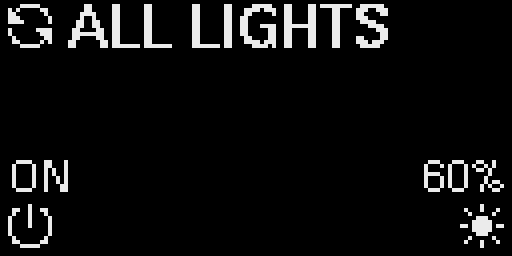
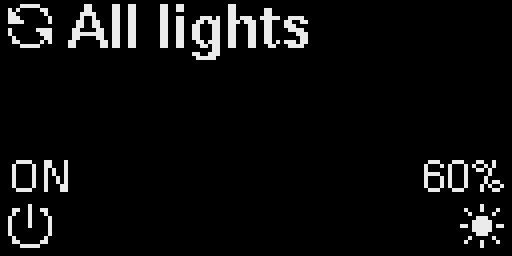
Bugfix

Changed region(s): [[0.2188, 0.0, 0.7812, 0.25]]

diff --git a/test/test_ui/test_main.cpp b/test/test_ui/test_main.cpp
@@ -77,7 +77,7 @@ void test_load_fonts() { TEST_ASSERT_TRUE(fonts.load()); }
 
 void test_home_starts_on_all_lights() {
   auto c = render();
-  TEST_ASSERT_TRUE(c.has_text("ALL LIGHTS"));
+  TEST_ASSERT_TRUE(c.has_text("All lights"));
   TEST_ASSERT_TRUE(c.has_text("ON"));
   TEST_ASSERT_TRUE(c.has_text("60%"));
   TEST_ASSERT_TRUE(c.has_bitmap(ic::swapL));
@@ -93,7 +93,7 @@ void test_b1_cycles_lights_and_wraps() {
   press(Button::TOP_LEFT);
   TEST_ASSERT_TRUE(render().has_text("Wall RGB"));
   press(Button::TOP_LEFT);
-  TEST_ASSERT_TRUE(render().has_text("ALL LIGHTS"));
+  TEST_ASSERT_TRUE(render().has_text("All lights"));
 }
 
 void test_single_light_has_no_all_lights_entry() {
@@ -204,13 +204,13 @@ void test_no_positions_shown() {
 
 void test_brightness_all_lights_starts_from_brightest_and_syncs() {
   fairy->set_brightness(30);
-  wall->set_brightness(75);
-  TEST_ASSERT_TRUE(render().has_text("75%"));
+  wall->set_brightness(73);
+  TEST_ASSERT_TRUE(render().has_text("73%"));
   press(Button::BOTTOM_RIGHT);
   TEST_ASSERT_EQUAL(Screen::BRIGHTNESS, ui->screen());
   press(Button::BOTTOM_RIGHT);  // up
-  TEST_ASSERT_EQUAL(80, fairy->brightness());
-  TEST_ASSERT_EQUAL(80, wall->brightness());
+  TEST_ASSERT_EQUAL(75, fairy->brightness());
+  TEST_ASSERT_EQUAL(75, wall->brightness());
   press(Button::BOTTOM_LEFT);  // down
   TEST_ASSERT_EQUAL(70, fairy->brightness());
   TEST_ASSERT_EQUAL(70, wall->brightness());
@@ -221,7 +221,7 @@ void test_brightness_steps_and_limits() {
   press(Button::BOTTOM_RIGHT);
   fairy->set_brightness(63);
   press(Button::BOTTOM_RIGHT);
-  TEST_ASSERT_EQUAL(70, fairy->brightness());
+  TEST_ASSERT_EQUAL(65, fairy->brightness());
   fairy->set_brightness(63);
   press(Button::BOTTOM_LEFT);
   TEST_ASSERT_EQUAL(60, fairy->brightness());
@@ -235,39 +235,51 @@ void test_brightness_steps_and_limits() {
 void test_brightness_down_to_zero_turns_off() {
   press(Button::TOP_LEFT);  // Fairy
   press(Button::BOTTOM_RIGHT);
-  fairy->set_brightness(10);
+  fairy->set_brightness(5);
   press(Button::BOTTOM_LEFT);
   TEST_ASSERT_FALSE(fairy->is_on());
-  TEST_ASSERT_EQUAL(10, fairy->brightness());  // kept for the next turn-on
+  TEST_ASSERT_EQUAL(5, fairy->brightness());  // kept for the next turn-on
   TEST_ASSERT_TRUE(wall->is_on());
   TEST_ASSERT_EQUAL(0, (int) render().fill_widths.size());  // empty bar
   press(Button::BOTTOM_LEFT);
   TEST_ASSERT_FALSE(fairy->is_on());
   press(Button::BOTTOM_RIGHT);  // up from 0 turns it on
   TEST_ASSERT_TRUE(fairy->is_on());
-  TEST_ASSERT_EQUAL(10, fairy->brightness());
-  fairy->set_brightness(5);  // below the first step (set elsewhere): down turns it off
+  TEST_ASSERT_EQUAL(5, fairy->brightness());
+  fairy->set_brightness(3);  // below the first step (set elsewhere): down turns it off
   press(Button::BOTTOM_LEFT);
   TEST_ASSERT_FALSE(fairy->is_on());
 }
 
 void test_brightness_all_lights_changes_only_lights_that_are_on() {
   fairy->set_on(false);
-  wall->set_brightness(40);
-  TEST_ASSERT_TRUE(render().has_text("40%"));  // Fairy's 60 % doesn't count while it's off
+  wall->set_brightness(20);
+  TEST_ASSERT_TRUE(render().has_text("20%"));  // Fairy's 60 % doesn't count while it's off
   press(Button::BOTTOM_RIGHT);
   press(Button::BOTTOM_RIGHT);  // up
-  TEST_ASSERT_EQUAL(50, wall->brightness());
+  TEST_ASSERT_EQUAL(25, wall->brightness());
   TEST_ASSERT_FALSE(fairy->is_on());
   TEST_ASSERT_EQUAL(60, fairy->brightness());
-  for (int i = 0; i < 5; i++) press(Button::BOTTOM_LEFT);  // 40, 30, 20, 10, 0
+  for (int i = 0; i < 5; i++) press(Button::BOTTOM_LEFT);  // 20, 15, 10, 5, 0
   TEST_ASSERT_FALSE(wall->is_on());
   TEST_ASSERT_FALSE(fairy->is_on());
   press(Button::BOTTOM_RIGHT);  // none on: up turns them all on
   TEST_ASSERT_TRUE(fairy->is_on());
   TEST_ASSERT_TRUE(wall->is_on());
-  TEST_ASSERT_EQUAL(10, fairy->brightness());
-  TEST_ASSERT_EQUAL(10, wall->brightness());
+  TEST_ASSERT_EQUAL(5, fairy->brightness());
+  TEST_ASSERT_EQUAL(5, wall->brightness());
+}
+
+void test_brightness_has_20_steps() {
+  press(Button::TOP_LEFT);  // Fairy
+  press(Button::BOTTOM_RIGHT);
+  fairy->set_on(false);
+  for (int step = 1; step <= 20; step++) {
+    press(Button::BOTTOM_RIGHT);
+    TEST_ASSERT_EQUAL(step * 5, fairy->brightness());
+  }
+  press(Button::BOTTOM_RIGHT);
+  TEST_ASSERT_EQUAL(100, fairy->brightness());
 }
 
 void test_brightness_bar_fill() {
@@ -283,17 +295,17 @@ void test_brightness_hold_repeats() {
   press(Button::TOP_LEFT);  // Fairy
   press(Button::BOTTOM_RIGHT);
   uint32_t t = now;
-  ui->press(Button::BOTTOM_RIGHT, t);  // 60 -> 70
-  TEST_ASSERT_EQUAL(70, fairy->brightness());
+  ui->press(Button::BOTTOM_RIGHT, t);  // 60 -> 65
+  TEST_ASSERT_EQUAL(65, fairy->brightness());
   TEST_ASSERT_FALSE(ui->tick(t + 499));
-  TEST_ASSERT_TRUE(ui->tick(t + 500));  // -> 80
-  TEST_ASSERT_EQUAL(80, fairy->brightness());
+  TEST_ASSERT_TRUE(ui->tick(t + 500));  // -> 70
+  TEST_ASSERT_EQUAL(70, fairy->brightness());
   TEST_ASSERT_FALSE(ui->tick(t + 600));
-  TEST_ASSERT_TRUE(ui->tick(t + 650));  // -> 90
-  TEST_ASSERT_EQUAL(90, fairy->brightness());
+  TEST_ASSERT_TRUE(ui->tick(t + 650));  // -> 75
+  TEST_ASSERT_EQUAL(75, fairy->brightness());
   ui->release(Button::BOTTOM_RIGHT, t + 700);
   TEST_ASSERT_FALSE(ui->tick(t + 2000));
-  TEST_ASSERT_EQUAL(90, fairy->brightness());
+  TEST_ASSERT_EQUAL(75, fairy->brightness());
 }
 
 void test_brightness_b1_returns_home() {
@@ -466,6 +478,7 @@ int main(int argc, char **argv) {
   RUN_TEST(test_brightness_steps_and_limits);
   RUN_TEST(test_brightness_down_to_zero_turns_off);
   RUN_TEST(test_brightness_all_lights_changes_only_lights_that_are_on);
+  RUN_TEST(test_brightness_has_20_steps);
   RUN_TEST(test_brightness_bar_fill);
   RUN_TEST(test_brightness_hold_repeats);
   RUN_TEST(test_brightness_b1_returns_home);

diff --git a/components/light_control_ui/lcui_ui.h b/components/light_control_ui/lcui_ui.h
@@ -23,7 +23,7 @@ namespace lcui {
  *   HOME        B1 next light (All lights first when there are 2+ lights), B2 on/off,
  *               B3 brightness screen, B4 mode screen (single lights only). B3 and B4 are hidden
  *               and do nothing while the light (or every light) is off
- *   BRIGHTNESS  B1 back, B2 down, B3 up (hold to repeat), in 10 % steps; 0 turns the light off.
+ *   BRIGHTNESS  B1 back, B2 down, B3 up (hold to repeat), in 5 % steps; 0 turns the light off.
  *               All lights start from the brightest light that's on, and the lights that are on
  *               are all set to the same value on the first change
  *   MODE        B1 back, B4 next mode, B2/B3 depend on the mode:

diff --git a/components/light_control_ui/lcui_ui.cpp b/components/light_control_ui/lcui_ui.cpp
@@ -48,13 +48,13 @@ constexpr int BAR_Y = 51;
 constexpr int BAR_W = 94;
 constexpr int BAR_H = 11;
 
-constexpr uint8_t BRIGHTNESS_STEP = 10;
+constexpr uint8_t BRIGHTNESS_STEP = 5;  // 20 steps
 constexpr uint32_t REPEAT_DELAY_MS = 500;
 constexpr uint32_t REPEAT_INTERVAL_MS = 150;
 
 constexpr size_t TEXT_MAX = 32;
 
-const char *const ALL_LIGHTS = "ALL LIGHTS";
+const char *const ALL_LIGHTS = "All lights";
 
 enum class Align : uint8_t { LEFT, CENTRE, RIGHT };
 

diff --git a/README.md b/README.md
@@ -16,12 +16,12 @@ Each button's icon and label are drawn next to it and change per screen.
 | Screen | B1 (top-left) | B2 (bottom-left) | B3 (bottom-right) | B4 (top-right) |
 |---|---|---|---|---|
 | Home | Next light (All lights, then each light) | On / off | Brightness screen (while on) | Mode screen (single lights, while on) |
-| Brightness | Back | Down 10 %, to 0 = off (hold to repeat) | Up 10 % (hold to repeat) | – |
+| Brightness | Back | Down 5 %, to 0 = off (hold to repeat) | Up 5 % (hold to repeat) | – |
 | Mode | Back | Previous colour / effect, or next colour 1 | Next colour / effect, or next colour 2 | Next mode |
 
 - **Modes:** WS2812B lights cycle 1 COLOUR → 2 COLOUR → EFFECTS. H-bridge lights cycle STATIC → EFFECTS. The home screen shows the mode by B4; the mode screen shows the colour or effect.
 - **Off:** while the light (or every light, on All lights) is off, B3 and B4 are hidden and do nothing.
-- **Brightness:** stepping down to 0 turns the light off, keeping its last brightness for the next turn-on. Up from 0 turns it on at 10 %.
+- **Brightness:** stepping down to 0 turns the light off, keeping its last brightness for the next turn-on. Up from 0 turns it on at 5 %. 20 steps from 5 % to 100 %.
 - **All lights:**
   - On/off shows ON if any light is on. A press turns them all off, or all on if all are off.
   - Brightness starts from the brightest light that's on, and the first press sets every light that's on to the same value. Lights that are off stay off, unless all of them are (stepped down to 0): then up turns them all on.
@@ -131,7 +131,7 @@ pio test -e native -f test_preview   # redraws docs/preview/*.png from the BDF f
 ## Not done yet
 
 - **AUTO** (ON / AUTO / OFF) is left out for now; B2 toggles on/off.
-- **Colours from the colour wheel aren't detected.** A colour picked on Home Assistant's colour wheel doesn't change the Preset select, so the OLED keeps showing the last preset. The UI can show CUSTOM, but the ESPHome port doesn't detect it yet.
+- **Colours from the colour wheel aren't detected.** A colour picked on Home Assistant's colour wheel doesn't change the Preset select, so the OLED keeps showing the last preset. The UI can show CUSTOM, but the ESPHome port doesn't detect it yet. The Preset selects are what's remembered across reboots, so after a reboot the strip goes back to the last preset.
 - **Choosing 1 COLOUR while the strip is off** turns it on in its previous mode, so the first B4 press appears to do nothing. `capture_strip_control` resumes the stored mode when a plain turn-on arrives, as it does for Home Assistant. B4 is now disabled while the light is off, so this only happens if the strip is turned off elsewhere while the mode screen is open.
 - **The screen stays on.** There's no screen timeout or burn-in protection.
 - **Two WS2812B outputs** need `balconylights.yaml` reworked first: its strip state (globals, scripts, Preset selects) exists once, for one strip.
